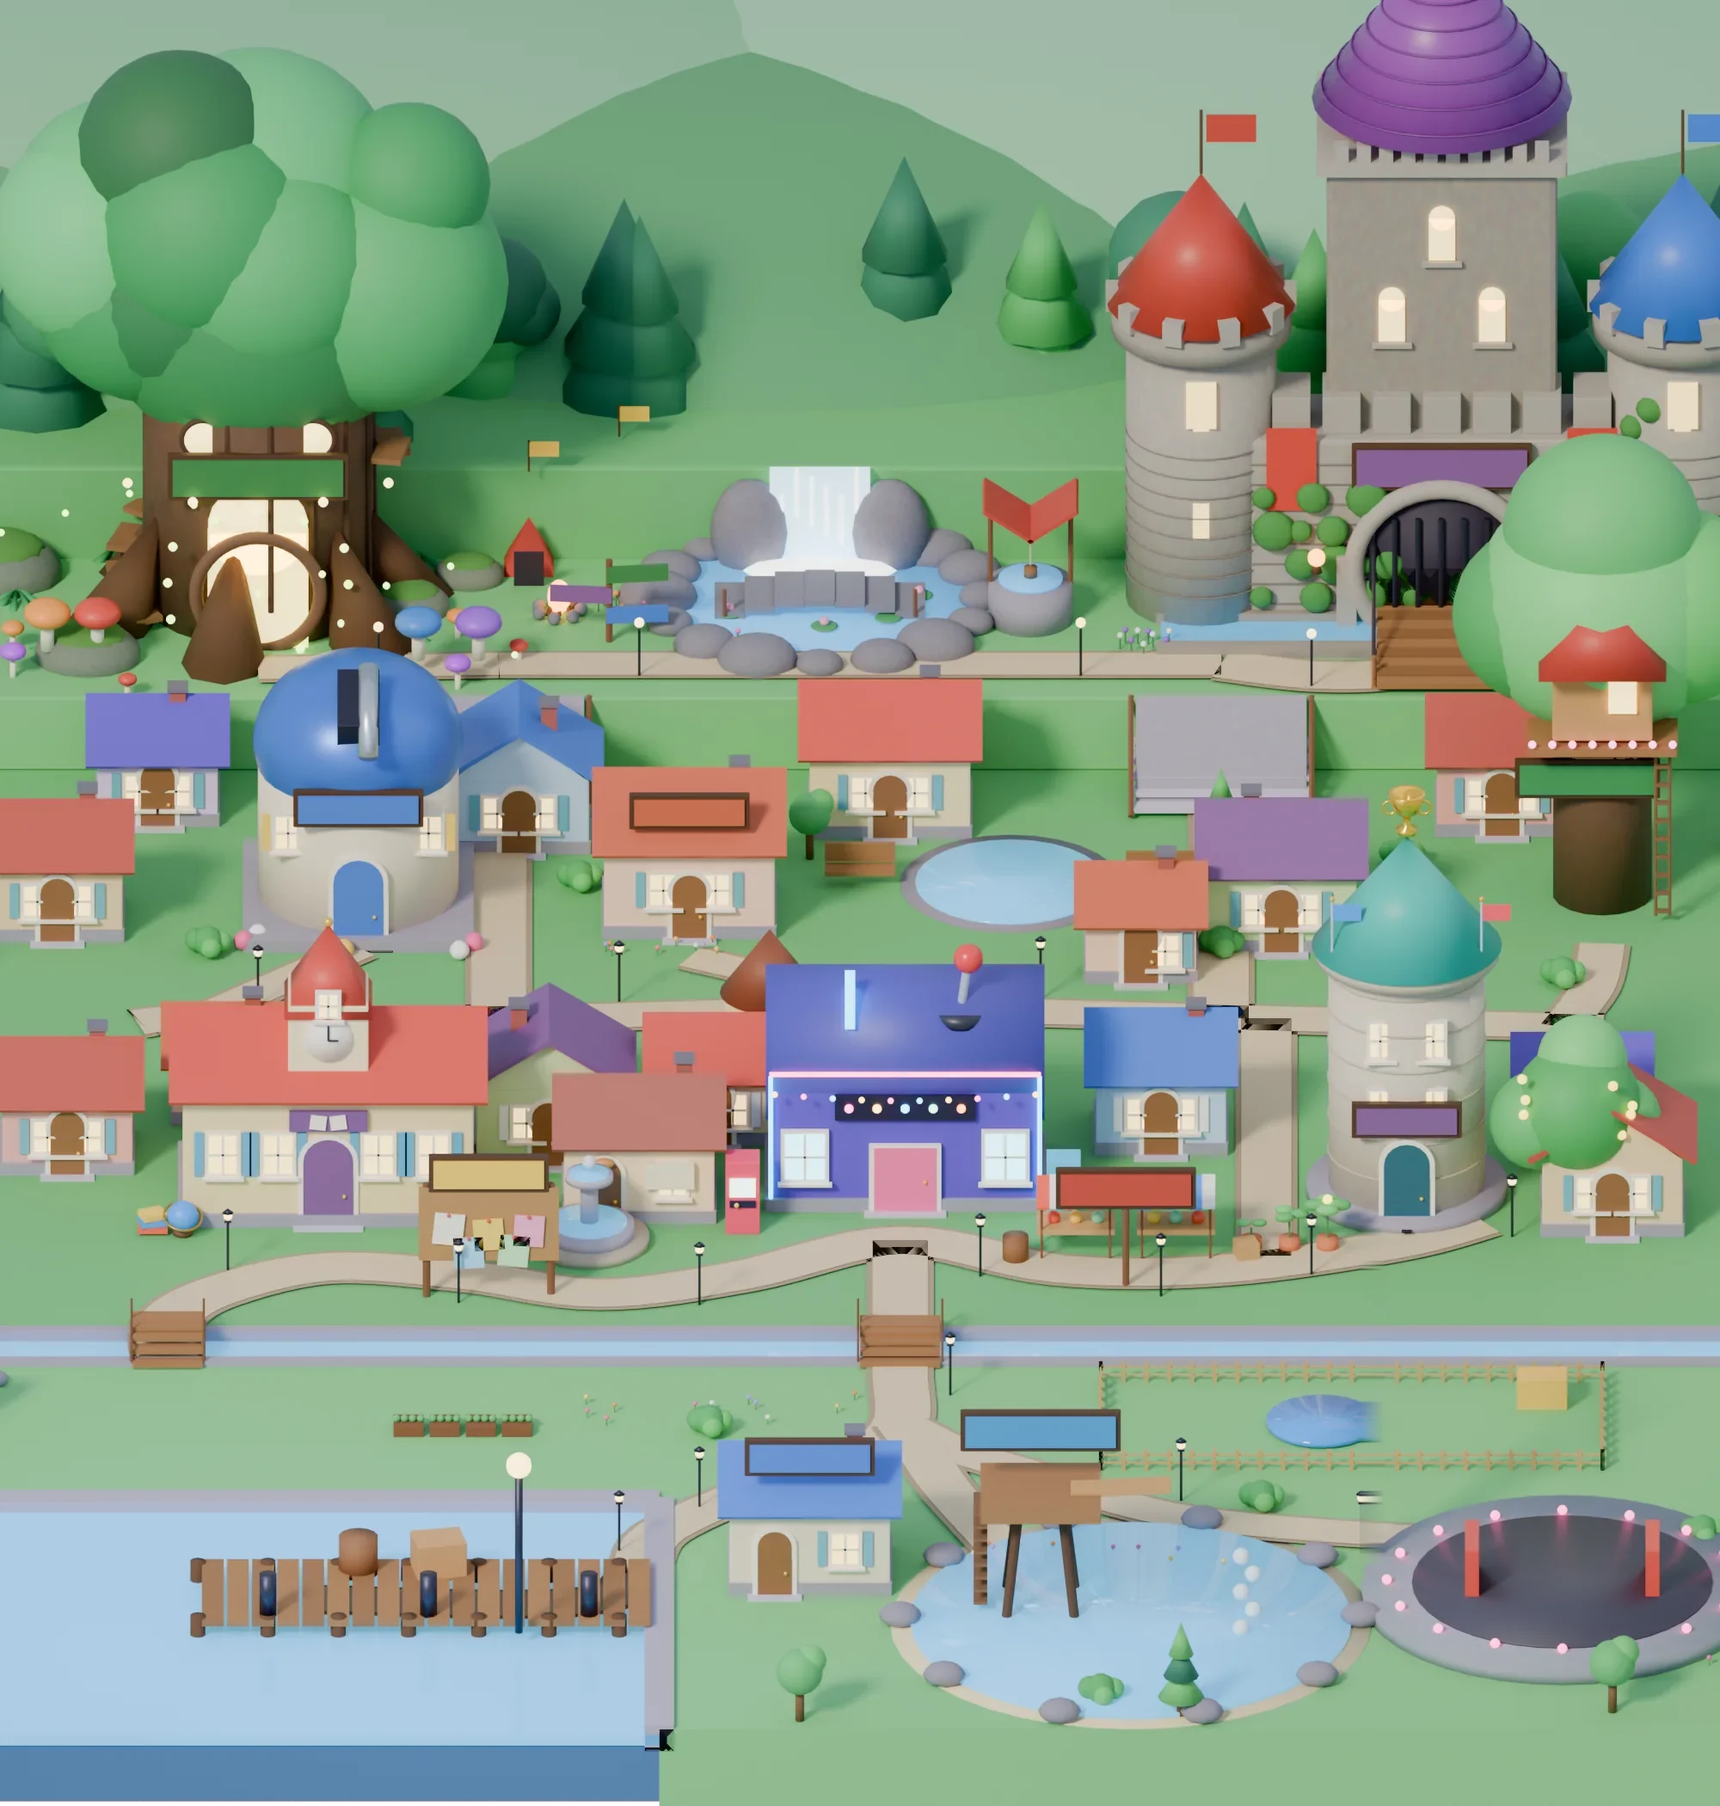
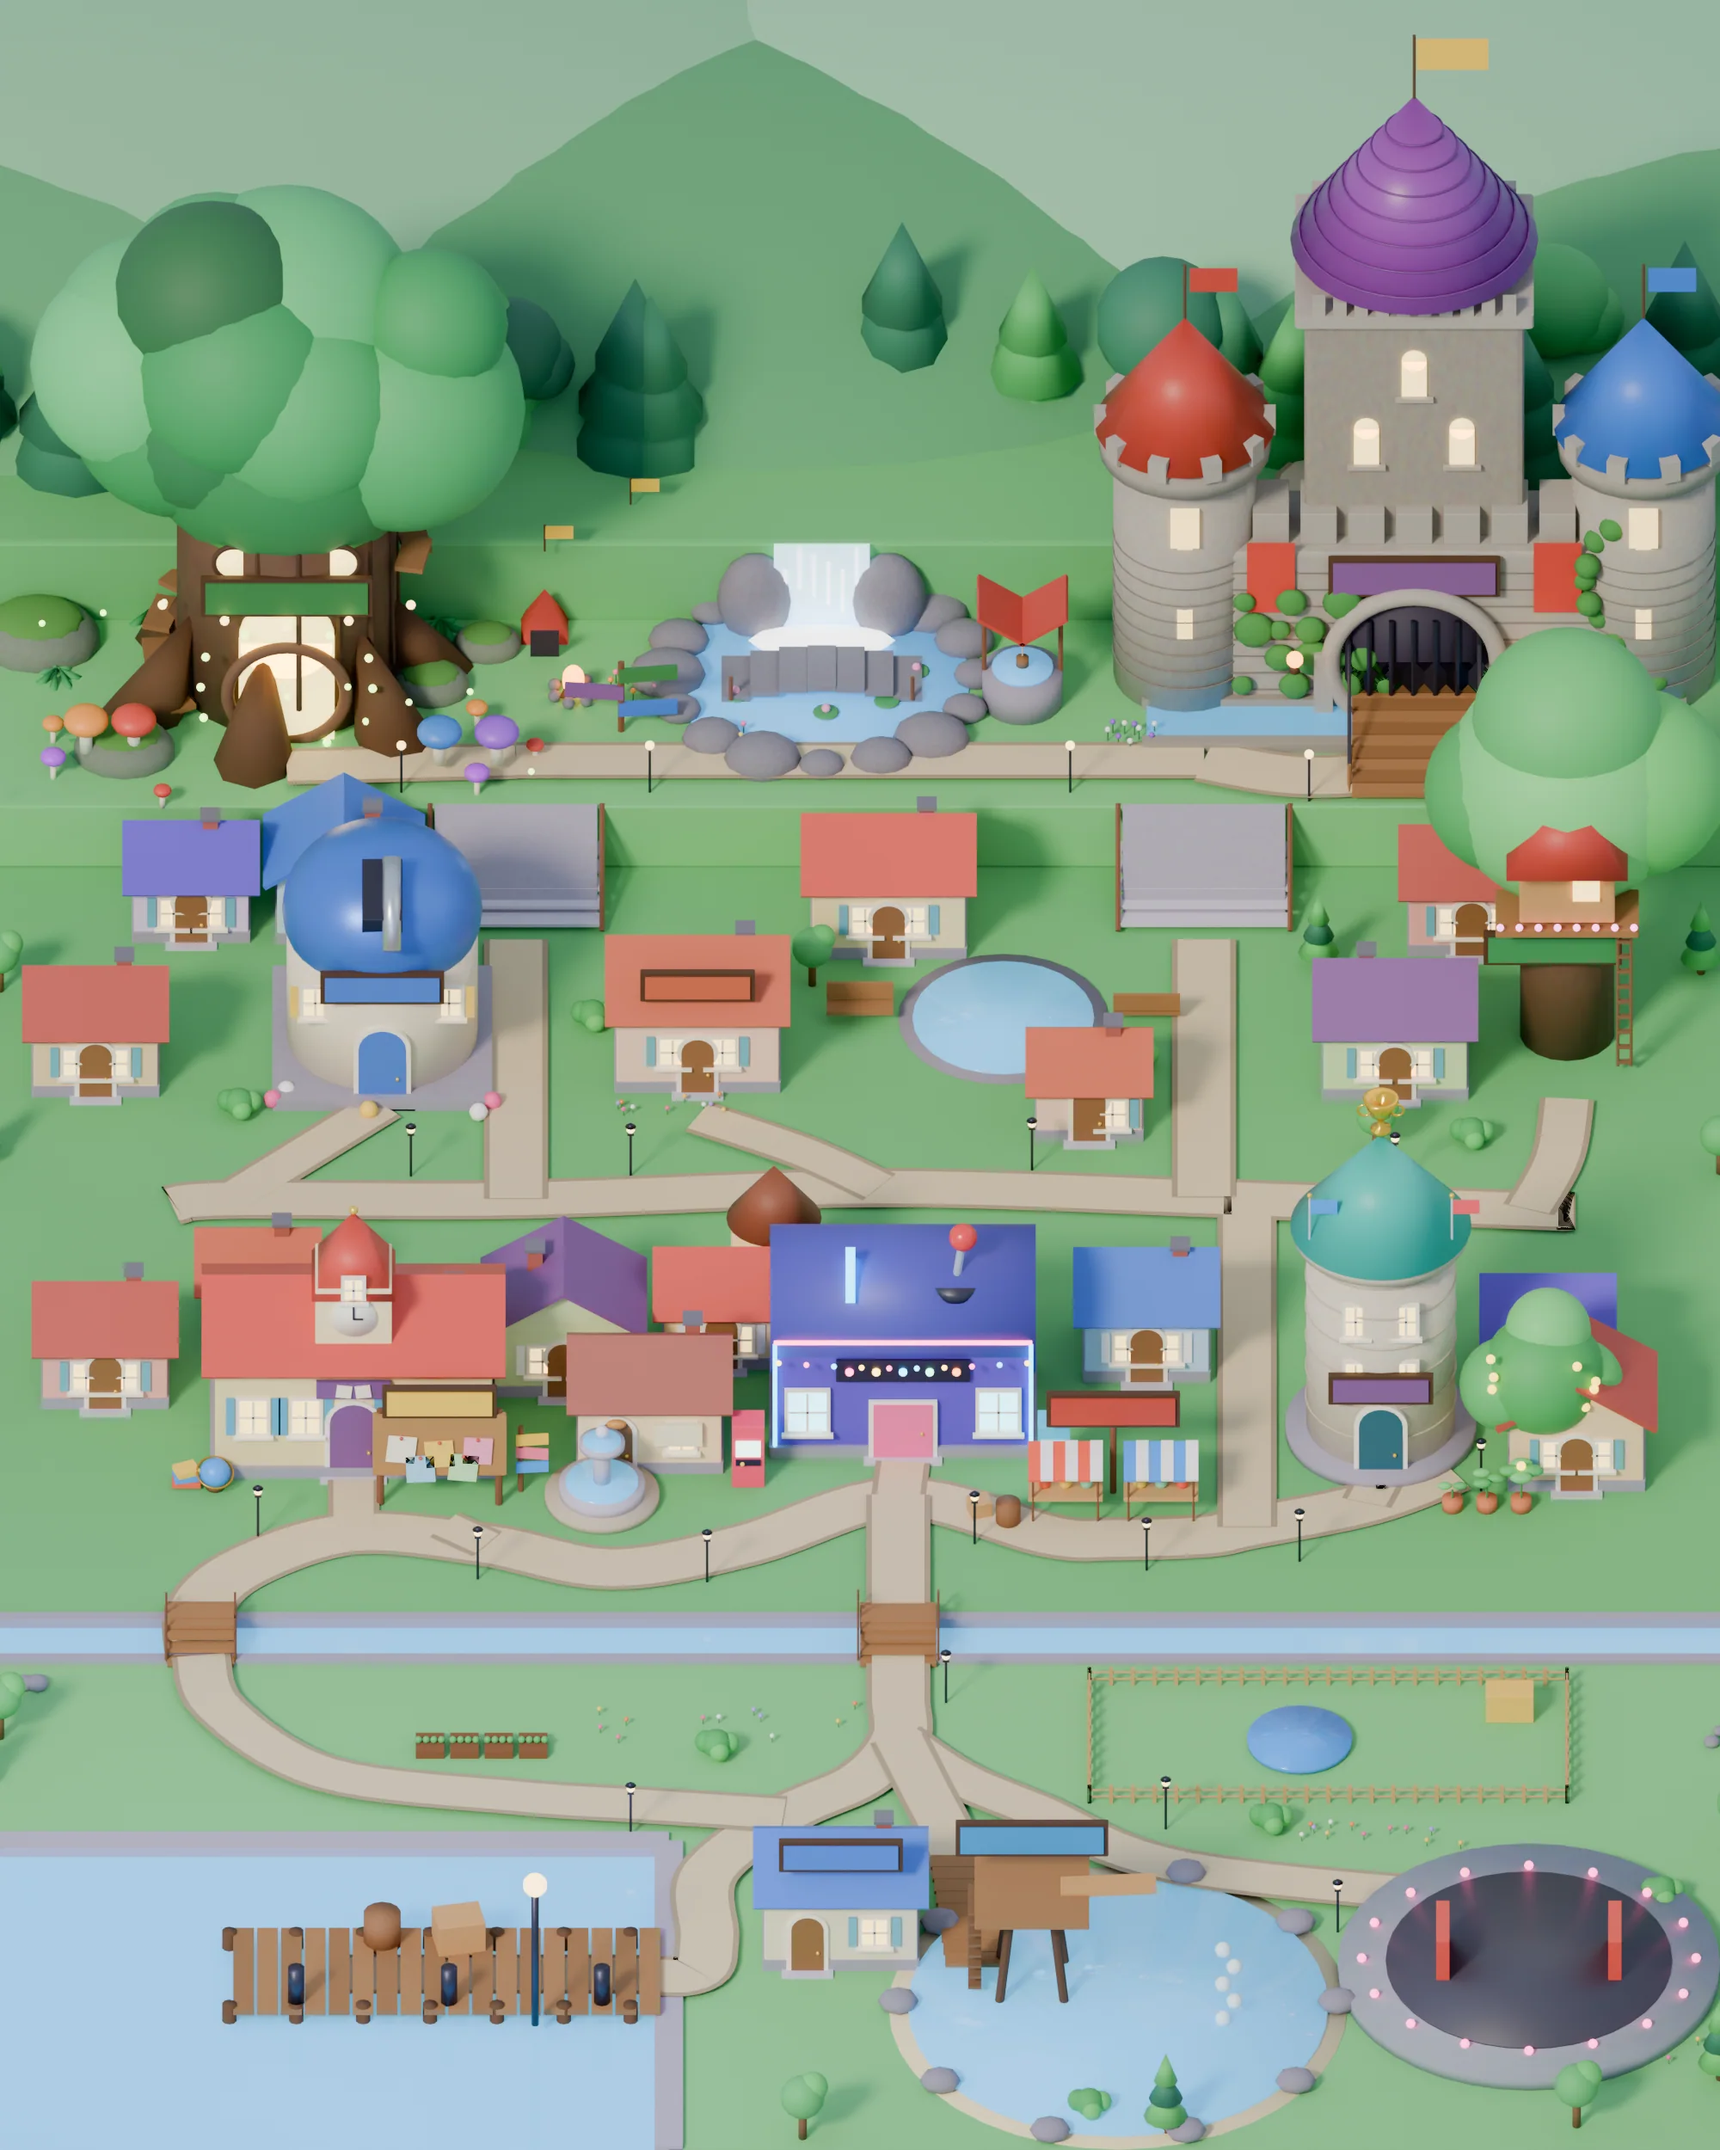
Městečko: nový render s rozložením „jako ve skutečnosti“ a chůze po husté síti cest
- public/home/mesto/hub*.webp a mesto-hub-kotvy.json z nového renderu (2000 × 2500): ulice mezi řadami domů
  jsou vidět, ke všem dveřím vedou cestičky, graf chůze (537 uzlů) leží přesně na vykreslených cestách.
- WASD: krok za snímek se rozloží do více krátkých úseků, rychlost nezávisí na počtu snímků.

Claude-Session: https://claude.ai/code/session_01HSmZZVxUP65FgbomJ4EfQk

diff --git a/src/components/TownHub.tsx b/src/components/TownHub.tsx
@@ -719,27 +719,34 @@ export function TownHub({ locale }: { locale: Locale }) {
         const dl = Math.hypot(dx, dy);
         const ux = dx / dl;
         const uy = dy / dl;
-        if (!seg && node) {
-          const step = pickStep(node, ux, uy);
-          if (step) seg = { A: nodes[node], from: node, to: step.to, t: 0, steer: step.steer };
-          steering = !!step?.steer;
-        }
-        if (seg) {
+        // krok za snímek se rozloží do více krátkých úseků (graf je hustý, uzly leží kousek od sebe)
+        let budget = SPEED * dt;
+        for (let guard = 0; budget > 1e-6 && guard < 40; guard++) {
+          if (!seg && node) {
+            const step = pickStep(node, ux, uy);
+            if (step) seg = { A: nodes[node], from: node, to: step.to, t: 0, steer: step.steer };
+            steering = !!step?.steer;
+          }
+          if (!seg) break;
           const B = nodes[seg.to];
           const [ex, ey, L] = dirOf(seg.A, B);
           const sc = ex * ux + ey * uy;
           // proti směru úseku: otočit se (zpět k výchozímu uzlu); kolmo: pokračovat k odbočce
           if (sc < -0.3 && seg.from && !seg.steer) seg = { A: B, from: seg.to, to: seg.from, t: 1 - seg.t };
           const [fx] = dirOf(seg.A, nodes[seg.to]);
-          seg.t += (SPEED * dt) / Math.max(1e-4, L);
+          const len = Math.max(1e-4, L);
+          seg.t += budget / len;
           moved = true;
           if (Math.abs(fx) > 0.2) flip = fx < 0 ? -1 : 1;
           if (seg.t >= 1) {
+            budget = (seg.t - 1) * len;
             prev = seg.from;
             node = seg.to;
             heroP.current = nodes[node];
             seg = null;
+            if (PLACES.some((p2) => p2.id === node)) break; // u dveří se zastaví
           } else {
+            budget = 0;
             const A = seg.A;
             const C = nodes[seg.to];
             heroP.current = [A[0] + (C[0] - A[0]) * seg.t, A[1] + (C[1] - A[1]) * seg.t];
